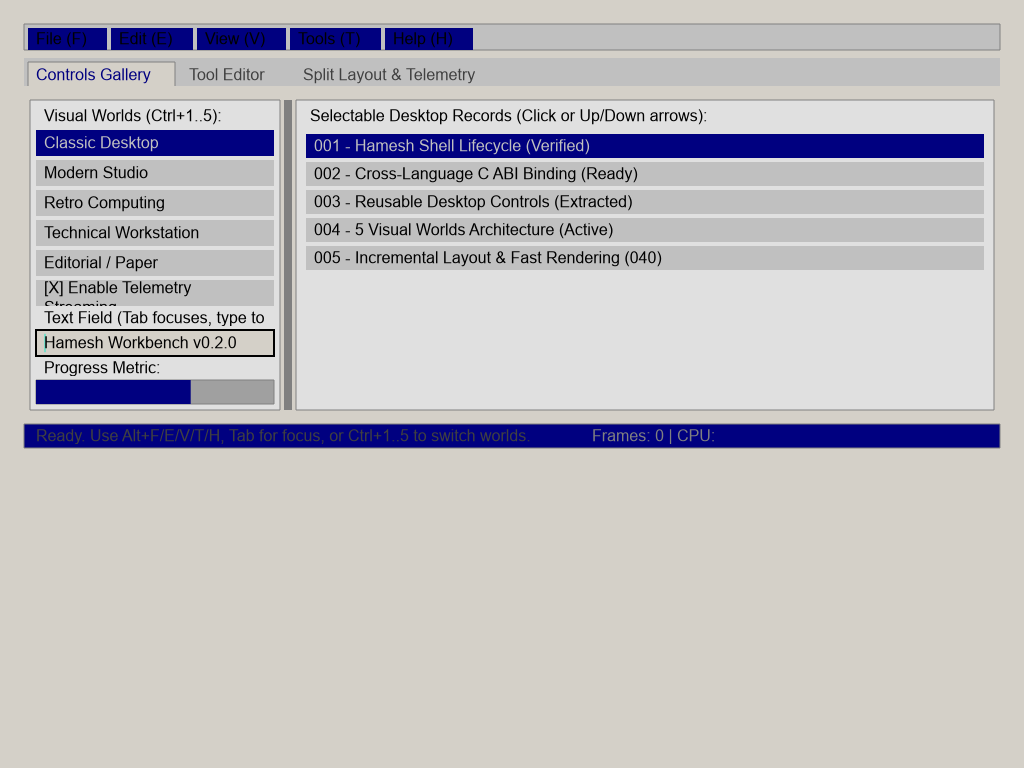
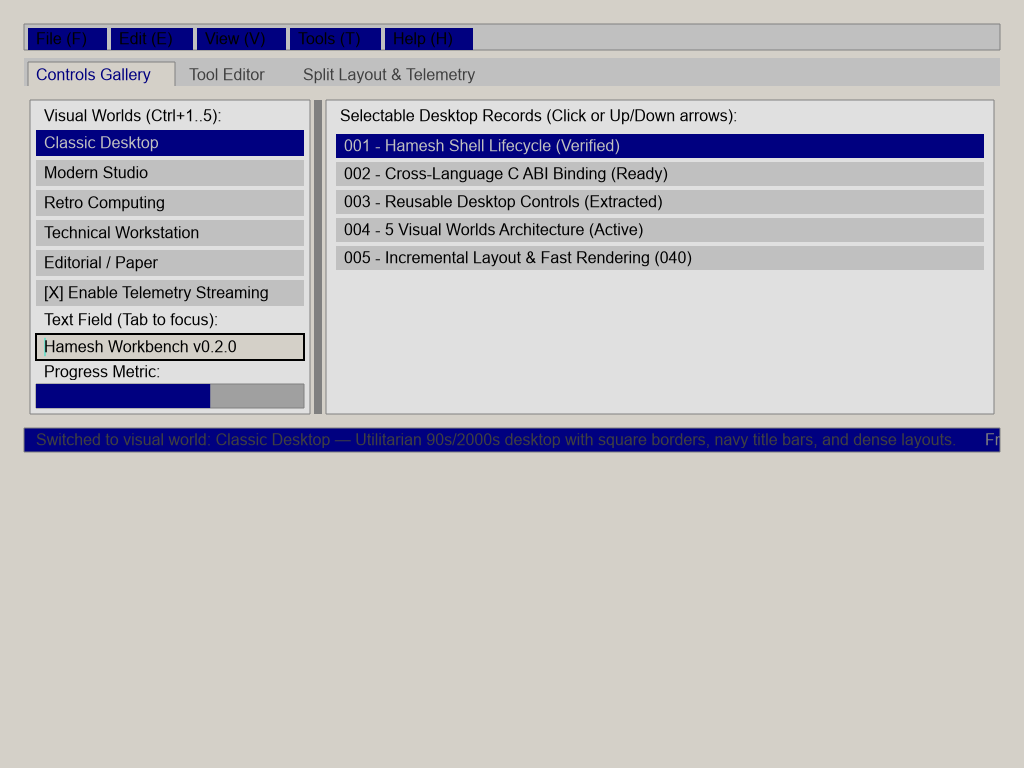
fix(043): correct workbench visual defects, list row heights, and dynamic status profiles

Changed region(s): [[0.0312, 0.125, 1.0, 0.5938]]

diff --git a/apps/hamesh-workbench/src/main.rs b/apps/hamesh-workbench/src/main.rs
@@ -243,7 +243,7 @@ impl WorkbenchApp {
             "workbench_records_row_4".to_string(),
         ]);
 
-        let splitter = SplitterControl::new("sidebar_splitter", 250.0, 160.0, 500.0);
+        let splitter = SplitterControl::new("sidebar_splitter", 280.0, 180.0, 500.0);
         let checkbox = CheckboxControl::new("sample_checkbox", "Enable Telemetry Streaming", true);
         let mut status_bar = StatusBarControl::new(
             "workbench_status_bar",
@@ -392,7 +392,7 @@ impl WorkbenchApp {
         let orig_world = self.world;
 
         for world in VisualWorld::ALL {
-            self.world = world;
+            self.set_visual_world(world);
             self.rebuild_ui(app);
             let layout = hamesh_layout::compute(app, 1024.0, 768.0);
             let scene = hamesh_scene::build(app, &layout, 1);
@@ -401,7 +401,7 @@ impl WorkbenchApp {
             let _ = frame.pixmap.save_png(&path);
         }
 
-        self.world = orig_world;
+        self.set_visual_world(orig_world);
         self.rebuild_ui(app);
     }
 
@@ -513,8 +513,8 @@ impl WorkbenchApp {
                 app.add(
                     "controls_left",
                     Component::new("text_field_label", Role::Text, "Input Label")
-                        .with_prop("h", "16")
-                        .with_prop("text", "Text Field (Tab focuses, type to edit):"),
+                        .with_prop("h", "20")
+                        .with_prop("text", "Text Field (Tab to focus):"),
                 );
 
                 let is_input_focused = self.focus_ring.current() == Some("sample_text_input");

diff --git a/crates/hamesh-widgets/src/desktop.rs b/crates/hamesh-widgets/src/desktop.rs
@@ -529,13 +529,14 @@ impl CheckboxControl {
         } else {
             format!("[ ] {}", self.label)
         };
-        let h = format!("{:.0}", world.control_height().min(30.0));
+        let h = format!("{:.0}", world.control_height());
         let radius = format!("{:.0}", world.corner_radius_sm());
 
         app.add(
             parent_id,
             Component::new(&self.id, Role::Button, &self.label)
                 .with_prop("layout", "row")
+                .with_prop("w", "100%")
                 .with_prop("h", &h)
                 .with_prop("gap", "8")
                 .with_prop("pad", "6")
@@ -707,6 +708,7 @@ impl SelectableListControl {
     ) {
         let row_h = format!("{:.0}", world.row_height());
         let radius = format!("{:.0}", world.corner_radius_sm());
+        let row_pad = if world.row_height() <= 24.0 { "4" } else { "6" };
 
         app.add(
             parent_id,
@@ -730,7 +732,7 @@ impl SelectableListControl {
                 &self.id,
                 Component::new(&row_id, Role::ListItem, item)
                     .with_prop("h", &row_h)
-                    .with_prop("pad", "8")
+                    .with_prop("pad", row_pad)
                     .with_prop("surface", row_surface)
                     .with_prop("color", row_color)
                     .with_prop("border", if is_focused { "2" } else { "0" })
